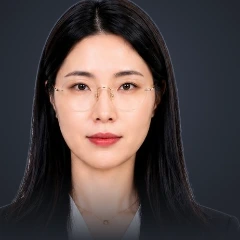
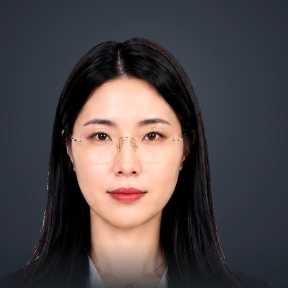
변호사 사진 수정
소스: bittalgil-web 9b2b120

diff --git a/404.html b/404.html
@@ -1084,7 +1084,7 @@ R.home=()=>`
 <section class="sec g-lift"><div class="wrap">
   <div class="panel rv"><div class="body" style="max-width:none">
     <h2 class="d2">상담은 변호사가<br>직접 합니다</h2>
-    <div class="lw"><div class="ph"><img src="img/lawyer.webp" alt="정창희 변호사" width="80" height="80" loading="lazy" decoding="async"></div><div class="tx">
+    <div class="lw"><div class="ph"><img src="img/lawyer.webp" alt="정창희 변호사" width="80" height="80" decoding="async" onerror="this.remove();this.parentNode.textContent='정'"></div><div class="tx">
       <div class="d3">${BIZ.lawyer} 변호사</div><div class="cap">${BIZ.firm} · 광고책임변호사</div></div></div>
     <div class="vf">
       <div class="vfrow"><span class="lb">소속</span><span class="vl">${BIZ.firm}</span><span class="ck">등록 법인</span></div>
@@ -1302,7 +1302,7 @@ R.about=()=>`
 ${phead('소개','가장 어려운 건<br>첫 걸음입니다')}
 <section class="sec"><div class="wrap stack">
   <p class="bd rv">채무 문제로 검색을 시작한 사람들은 대부분 이미 오래 혼자 버텨온 뒤입니다. 빚탈길은 그 첫 걸음을 가볍게 만들기 위해 만들어졌습니다.</p>
-  <div class="card rv"><div class="lw"><div class="ph"><img src="img/lawyer.webp" alt="정창희 변호사" width="80" height="80" loading="lazy" decoding="async"></div><div class="tx">
+  <div class="card rv"><div class="lw"><div class="ph"><img src="img/lawyer.webp" alt="정창희 변호사" width="80" height="80" decoding="async" onerror="this.remove();this.parentNode.textContent='정'"></div><div class="tx">
     <div class="d3">${BIZ.lawyer} 변호사</div><div class="cap">${BIZ.firm} · 광고책임변호사</div></div></div></div>
   <h2 class="d3 rv">운영사 정보</h2>
   <div class="rows rv">

diff --git a/index.html b/index.html
@@ -1084,7 +1084,7 @@ R.home=()=>`
 <section class="sec g-lift"><div class="wrap">
   <div class="panel rv"><div class="body" style="max-width:none">
     <h2 class="d2">상담은 변호사가<br>직접 합니다</h2>
-    <div class="lw"><div class="ph"><img src="img/lawyer.webp" alt="정창희 변호사" width="80" height="80" loading="lazy" decoding="async"></div><div class="tx">
+    <div class="lw"><div class="ph"><img src="img/lawyer.webp" alt="정창희 변호사" width="80" height="80" decoding="async" onerror="this.remove();this.parentNode.textContent='정'"></div><div class="tx">
       <div class="d3">${BIZ.lawyer} 변호사</div><div class="cap">${BIZ.firm} · 광고책임변호사</div></div></div>
     <div class="vf">
       <div class="vfrow"><span class="lb">소속</span><span class="vl">${BIZ.firm}</span><span class="ck">등록 법인</span></div>
@@ -1302,7 +1302,7 @@ R.about=()=>`
 ${phead('소개','가장 어려운 건<br>첫 걸음입니다')}
 <section class="sec"><div class="wrap stack">
   <p class="bd rv">채무 문제로 검색을 시작한 사람들은 대부분 이미 오래 혼자 버텨온 뒤입니다. 빚탈길은 그 첫 걸음을 가볍게 만들기 위해 만들어졌습니다.</p>
-  <div class="card rv"><div class="lw"><div class="ph"><img src="img/lawyer.webp" alt="정창희 변호사" width="80" height="80" loading="lazy" decoding="async"></div><div class="tx">
+  <div class="card rv"><div class="lw"><div class="ph"><img src="img/lawyer.webp" alt="정창희 변호사" width="80" height="80" decoding="async" onerror="this.remove();this.parentNode.textContent='정'"></div><div class="tx">
     <div class="d3">${BIZ.lawyer} 변호사</div><div class="cap">${BIZ.firm} · 광고책임변호사</div></div></div></div>
   <h2 class="d3 rv">운영사 정보</h2>
   <div class="rows rv">
